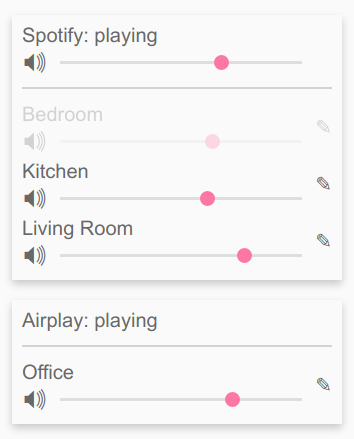
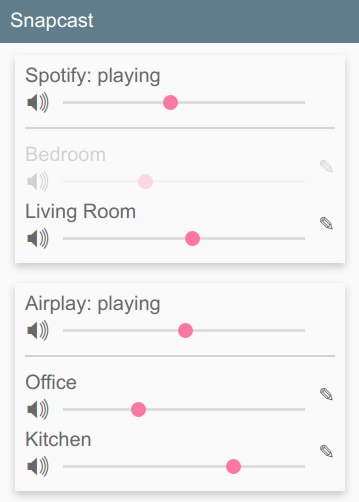
Add navbar, make text not selectable

diff --git a/styles.css b/styles.css
@@ -28,6 +28,21 @@ body {
     background: #555;
 }
 
+.navbar {
+    overflow: hidden;
+    background-color: #607d8b;
+    z-index: 1; /* Sit on top */
+    padding: 10px;
+    color: white;
+    position: fixed; /* Set the navbar to fixed position */
+    top: 0; /* Position the navbar at the top of the page */
+    width: 100%; /* Full width */
+}
+
+.content {
+    margin-top: 55px
+}
+
 .group {
     float: none;
     box-shadow: 0 4px 8px 0 rgba(0,0,0,0.2);
@@ -114,6 +129,7 @@ select {
 
 .name {
     color: #686868;
+    user-select: none;
     /* background: red; */
     padding-top: 5px;
     grid-row: 1;

diff --git a/script.ts b/script.ts
@@ -330,6 +330,9 @@ let snapcontrol = new SnapControl(window.location.hostname, 1780);
 function show() {
     // Render the page
     let content = "";
+    content += "<div class='navbar'>Snapcast";
+    content += "</div>";
+    content += "<div class='content'>";
 
     let server = snapcontrol.server;
     for (let group of server.groups) {
@@ -417,6 +420,7 @@ function show() {
         }
         content += "</div>";
     }
+    content += "</div>"; // content
 
     content += "<div id='client_settings' class='client_settings'>";
     content += "    <div class='client_setting_content'>";

diff --git a/snapweb.html b/snapweb.html
@@ -3,7 +3,7 @@
 <head>
   <meta name="viewport" content="width=device-width, initial-scale=1">
   <link rel="stylesheet" href="styles.css">
-  <title>Snapcast Interface</title>
+  <title>Snapweb</title>
   <script src="script.js"></script>
 </head>
 
